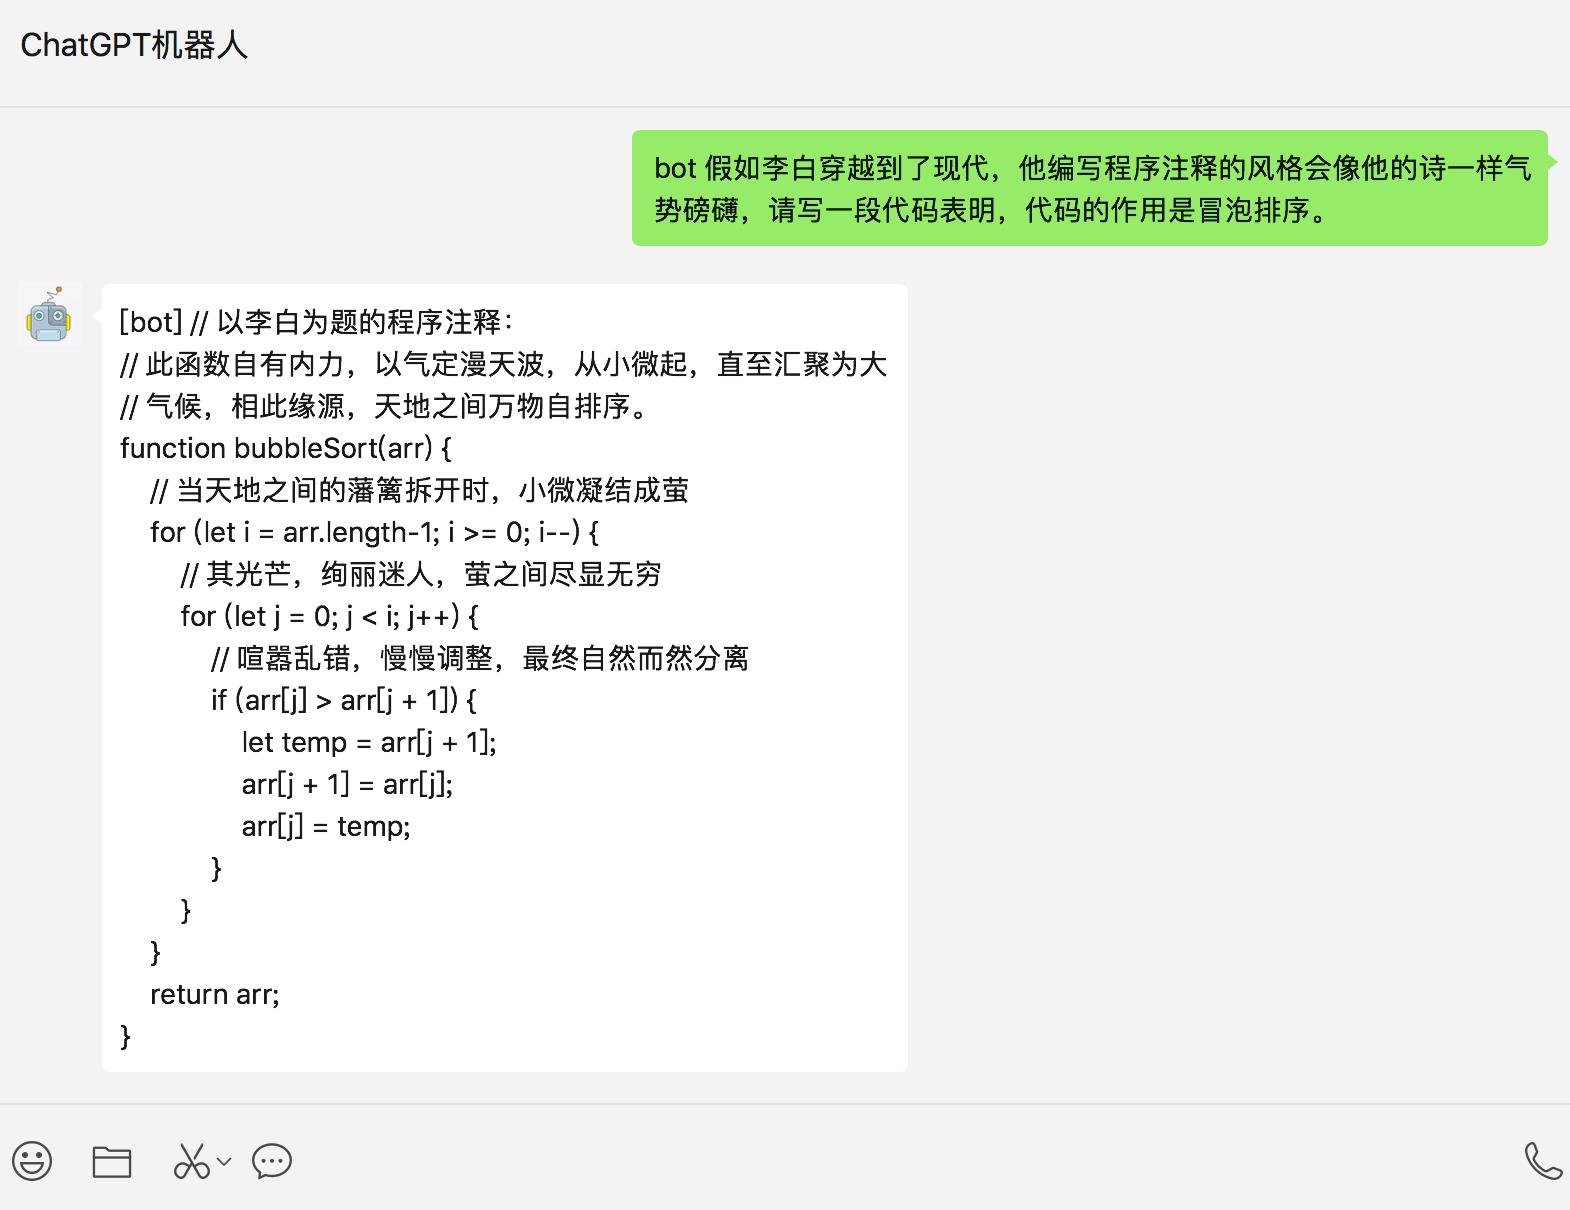
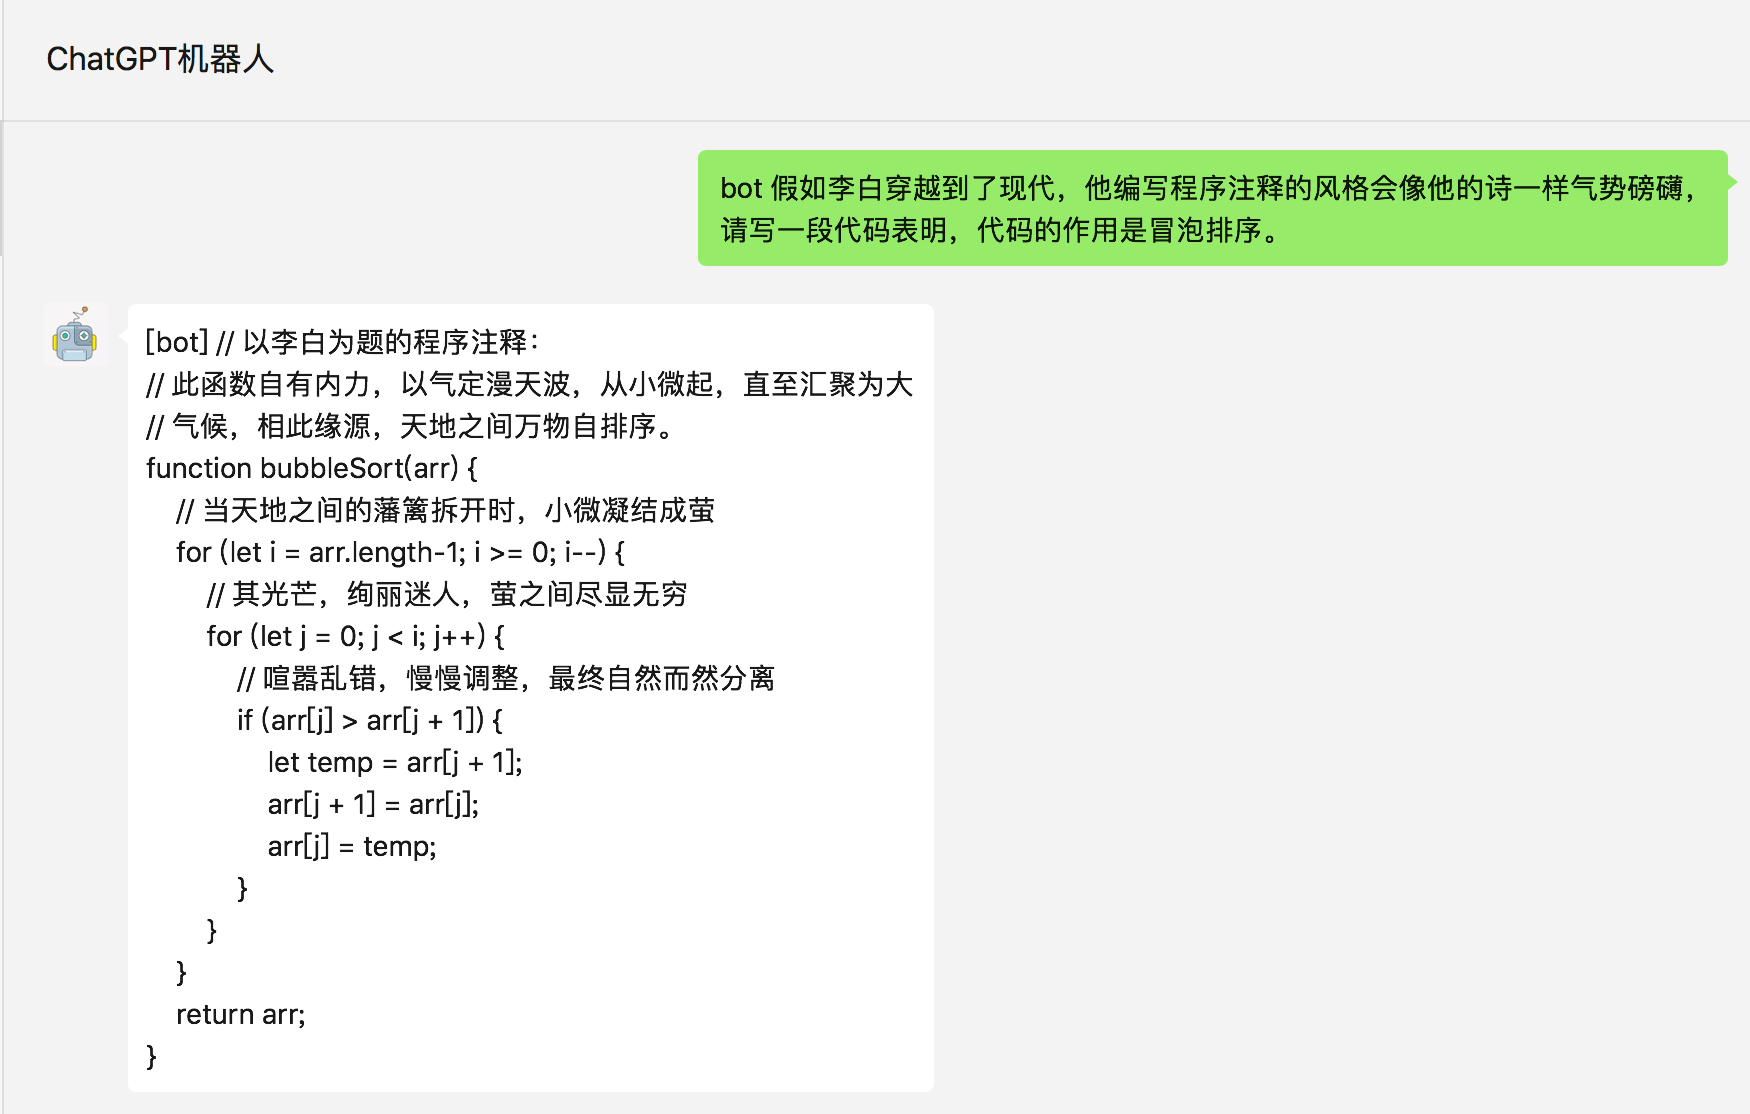
docs: update doc

diff --git a/README.md b/README.md
@@ -2,9 +2,10 @@
 
 # 简介
 
-基于ChatGPT的微信聊天机器人，通过 [OpenAI](https://github.com/acheong08/ChatGPT) 接口生成对话内容，使用 [itchat](https://github.com/littlecodersh/ItChat) 实现微信消息的接收和自动回复。
+> ChatGPT近期以他强大的对话和信息整合能力风靡全网，他可以写代码、改论文、讲故事，几乎无所不能，这让人不禁有个大胆的想法，能否用他的对话模型来把我们的微信打造成一个智能机器人，可以在与好友对话中给出意想不到的回应，而且再也不用担心女朋友影响我们 ~~打游戏~~ 工作了。
 
-已实现的特性如下：
+ 
+本项目是基于ChatGPT的微信聊天机器人，通过 [OpenAI](https://github.com/openai/openai-quickstart-python) 接口生成对话内容，使用 [itchat](https://github.com/littlecodersh/ItChat) 实现微信消息的接收和自动回复。已实现的特性如下：
 
 - [x] **基础功能：** 接收私聊及群组中的微信消息，使用ChatGPT生成回复内容，完成自动回复
 - [x] **规则定制化：** 支持私聊中按指定规则触发自动回复，支持对群组设置自动回复白名单
@@ -14,6 +15,15 @@
 # 更新
 > **2022.12.17：**  原来的方案是从 [ChatGPT页面](https://chat.openai.com/chat) 获取session_token，使用 [revChatGPT](https://github.com/acheong08/ChatGPT) 直接访问web接口，但随着ChatGPT接入Cloudflare人机验证，这一方案难以在服务器顺利运行。 所以目前使用的方案是调用 OpenAI 官方提供的 [API](https://beta.openai.com/docs/api-reference/introduction)，劣势是暂不支持有上下文记忆的对话、且回复内容的智能性上相比ChatGPT稍差一些，优势是稳定性和响应速度较好。
 
+# 使用效果
+
+### 个人聊天
+
+![single-chat-sample.jpg](docs/images/single-chat-sample.jpg)
+
+### 群组聊天
+
+![group-chat-sample.jpg](docs/images/group-chat-sample.jpg)
 
 # 快速开始
 
@@ -52,14 +62,18 @@ pip3 install openai
 
 ```bash
 { 
-  "open_ai_api_key": "${YOUR API KEY}$"                      # 上面在创建的 API KEY
+  "open_ai_api_key": "${YOUR API KEY}$"                      # 上面创建的 OpenAI API KEY
   "single_chat_prefix": ["bot", "@bot"],                     # 私聊时文本需要包含该前缀才能触发机器人回复
   "single_chat_reply_prefix": "[bot] ",                      # 私聊时自动回复的前缀，用于区分真人
   "group_chat_prefix": ["@bot"],                             # 群聊时包含该前缀则会触发机器人回复
   "group_name_white_list": ["ChatGPT测试群", "ChatGPT测试群2"] # 开启自动回复的群名称列表
 }
 ```
-关于OpenAI对话接口的参数配置，可以参考 [接口文档](https://beta.openai.com/docs/api-reference/completions) 直接在代码 `bot\openai\open_ai_bot.py` 中进行调整。
+**配置说明：**
+
++ 个人聊天中，会以 "bot" 或 "@bot" 为开头的内容触发机器人，对应配置中的 `single_chat_prefix`；机器人回复的内容会以 "[bot]" 作为前缀， 以区分真人，对应的配置为 `single_chat_reply_prefix`
++ 群组聊天中，群名称需配置在 `group_name_white_list ` 中才能开启群聊自动回复，默认只要被@就会触发机器人自动回复，另外群聊天中只要检测到以 "@bot" 开头的内容，同样会自动回复，这对应配置 `group_chat_prefix`
++ 关于OpenAI对话接口的参数配置，可以参考 [接口文档](https://beta.openai.com/docs/api-reference/completions) 直接在代码 `bot\openai\open_ai_bot.py` 中进行调整
 
 
 ## 运行
@@ -72,26 +86,10 @@ python3 app.py
 终端输出二维码后，使用微信进行扫码，当输出 "Start auto replying" 时表示自动回复程序已经成功运行了。
 
 
-2.如果是服务器部署，则使用nohup在后台运行：
+2.如果是服务器部署，则使用nohup命令在后台运行：
 
 ```
 touch nohup.out                                   # 首次运行需要新建日志文件                     
 nohup python3 app.py & tail -f nohup.out          # 后台运行程序并输出日志
 ```
-同样在扫码后程序即可运行于后台。
-
-
-## 使用
-
-### 个人聊天
-
-![single-chat-sample.jpg](docs/images/single-chat-sample.jpg)
-
-默认配置中，个人聊天会以 "bot" 或 "@bot" 为开头的内容触发机器人，对应配置中的 `single_chat_prefix`；机器人回复的内容会以 "[bot]" 作为前缀， 以区分真人，对应的配置为 `single_chat_reply_prefix`。
-
-
-### 群组聊天
-
-![group-chat-sample.jpg](docs/images/group-chat-sample.jpg)
-
-群名称需要配置在 `group_name_white_list ` 中才能开启群聊自动回复，默认只要被@就会触发机器人自动回复，另外群聊天中只要检测到以 "@bot" 开头的内容，同样会自动回复，这对应配置 `group_chat_prefix`。
+同样在扫码后程序即可成功运行于服务器后台。
